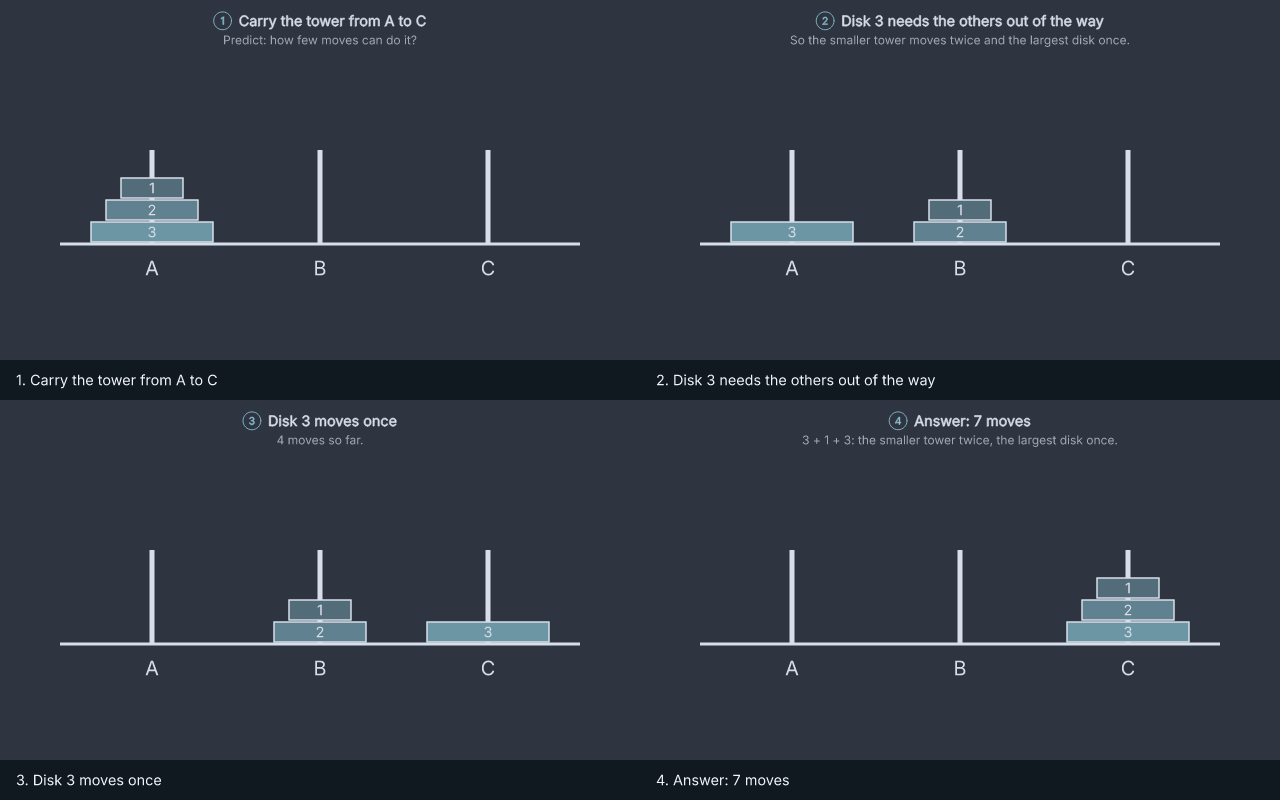
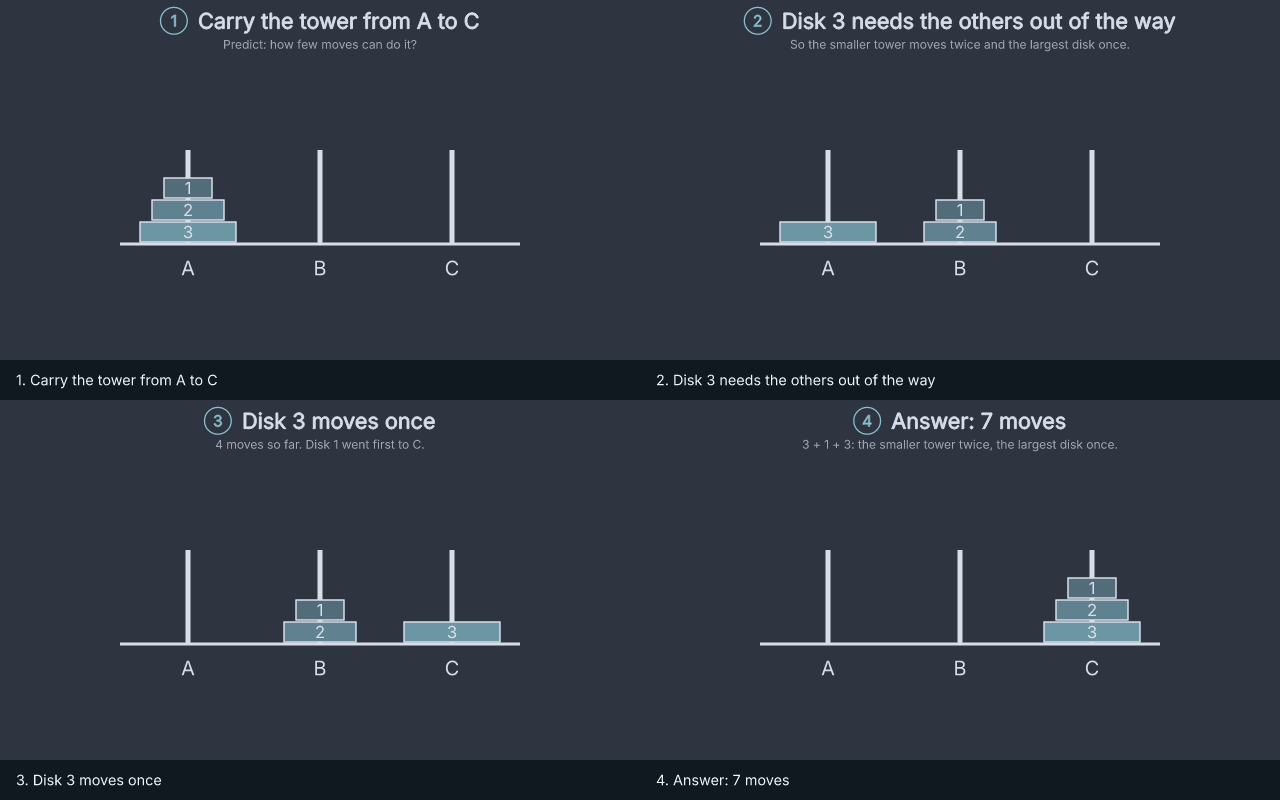
README: bring the Hanoi example and its picture up to date with the explainer
Claude-Session: https://claude.ai/code/session_01N4DAa8J5FbL58UQrRWLQhK

diff --git a/README.md b/README.md
@@ -85,17 +85,20 @@ export function solve(n: number, from = 'A', to = 'C', spare = 'B'): Move[] {
   if (n === 0) return [];
   return [...solve(n - 1, from, spare, to), `${from}→${to}` as Move, ...solve(n - 1, spare, to, from)];
 }
+
+/** Whether all `n` disks are on C, where the story ends. */
+export const finished = (t: Tower, n: number) => t.pegs[2]!.length === n;
 ```
 
-Its [test](scenes/tutorial/hanoi/model.test.ts) searches every arrangement, confirms that no route beats 7 moves for three disks or 15 for four, and checks that `solve()` takes that many.
+Its [test](scenes/tutorial/hanoi/model.test.ts) searches every arrangement, confirms that no route beats 7 moves for three disks, 15 for four or 31 for five, and checks that `solve()` takes that many.
 
-The scene draws each arrangement from the model's state, replays `solve()` across four steps, and leaves the last step live, so the reader can press moves and try to beat seven:
+The scene draws each arrangement from the model's state, replays `solve()` across four steps, and leaves the last step live: once the tower is on C, the reader’s own moves start again from A:
 
 <!-- hanoi/scene.ts -->
 ```ts
-import { Scene, Group, Rectangle, Text, Machine, view, lerpColor } from 'rayner';
+import { Scene, Group, Rectangle, Text, Machine, view, lerpColor, isRefusal } from 'rayner';
 import { stage, settingsOf } from 'rayner/explain';
-import { MOVES, next, solve, start, type Move, type Tower } from './model.ts';
+import { MOVES, finished, next, solve, start, type Move, type Tower } from './model.ts';
 
 const key = <T extends object>(part: T, name: string) => Object.assign(part, { key: name });
 const say = (t: Tower) => t.pegs.map((p, i) => `${'ABC'[i]}: ${p.join(', ') || 'empty'}`).join('; ');
@@ -104,10 +107,11 @@ export default class Hanoi extends Scene<Tower> {
   static meta = {
     id: 'hanoi',
     title: 'How few moves can carry a tower to another peg?',
+    sources: ['https://en.wikipedia.org/wiki/Tower_of_Hanoi'],
     answer: 'the smaller tower moves twice and the largest disk once',
     checks: [
       { question: 'Suppose the tower must end on B instead. Where must disks 1 and 2 be when disk 3 moves?', answer: 'On C: disk 3 needs B empty to land there, so the smaller tower waits on the other peg.' },
-      { question: 'How few moves carry five disks, and why?', answer: '31: the four-disk tower moves twice, 15 moves each time, and disk 5 moves once.' },
+      { question: 'How few moves carry five disks, and where does disk 1 go first?', answer: '31: the four-disk tower moves twice, 15 moves each time, and disk 5 once. Disk 1 goes first to C, as it does for three disks.' },
     ],
   };
   static settings = [{ id: 'disks', label: 'Disks', default: '3', options: [{ value: '3', label: '3' }, { value: '4', label: '4' }] }];
@@ -117,40 +121,46 @@ export default class Hanoi extends Scene<Tower> {
     const n = Number(settingsOf(this).disks), moves = solve(n), few = (moves.length - 1) / 2;
     const smaller = n === 3 ? 'disks 1 and 2' : `disks 1 to ${n - 1}`;
     this.state = start(n);
-    const s = stage(this);
+    const s = stage(this, { headingSize: 0.54 });
     const { ink, paper } = s.palette;
     // A floor wider than any arrangement, so the frame holds still; then each peg, its letter, and its
     // disks bottom first. A disk keeps its key, so a move slides it.
-    const floor = () => key(new Rectangle({ width: 13, height: 0.08, stroke: 'none', fill: ink }).moveTo([0, -1.6]), 'floor');
+    const floor = () => key(new Rectangle({ width: 10, height: 0.08, stroke: 'none', fill: ink }).moveTo([0, -1.6]), 'floor');
     const draw = ({ pegs }: Tower) => new Group(floor(), ...pegs.flatMap((disks, p) => {
-      const x = (p - 1) * 4.2;
+      const x = (p - 1) * 3.3;
       return [
         key(new Rectangle({ width: 0.12, height: 0.55 * n + 0.7, stroke: 'none', fill: ink }).moveTo([x, -1.6 + (0.55 * n + 0.7) / 2]), `peg:${p}`),
         key(new Text('ABC'[p]!, { fontSize: 0.5, color: ink }).moveTo([x, -2.2]), `letter:${p}`),
         ...disks.flatMap((d, i) => [
-          key(new Rectangle({ width: 0.8 + 0.75 * d, height: 0.5, stroke: ink, strokeWidth: 0.04, fill: lerpColor(paper, s.emphasis, 0.25 + 0.15 * d) })
+          key(new Rectangle({ width: 0.6 + 0.6 * d, height: 0.5, stroke: ink, strokeWidth: 0.04, fill: lerpColor(paper, s.emphasis, 0.25 + 0.15 * d) })
             .moveTo([x, -1.3 + 0.55 * i]), `disk:${d}`),
-          key(new Text(String(d), { fontSize: 0.36, color: ink }).moveTo([x, -1.3 + 0.55 * i]), `number:${d}`),
+          key(new Text(String(d), { fontSize: 0.42, color: ink }).moveTo([x, -1.3 + 0.55 * i]), `number:${d}`),
         ]),
       ];
     }));
     const tower = view(this, draw);
-    const machine = new Machine<Tower, Move>(this, { start: start(n), events: MOVES, next, views: [tower] });
+    // Once the tower is on C the story ends, so the reader's own moves start again from A.
+    const machine = new Machine<Tower, Move>(this, { start: start(n), events: MOVES, next, views: [tower],
+      bound: (t, move) => (finished(t, n) && !isRefusal(next(t, move)) ? 'the tower is on C' : undefined) });
 
     await this.step('start', { title: 'Carry the tower from A to C', line: 'Predict: how few moves can do it?',
-      caption: `Move one disk at a time, from the top of a peg onto an empty peg or a larger disk. How few moves carry all ${n} disks from A to C?` });
+      caption: `Move one disk at a time, from the top of a peg onto an empty peg or a larger disk. How few moves carry all ${n} disks from A to C? There is a way to know without trying them all.` });
     await s.enter(tower, { describe: () => `Pegs, bottom disk first. ${say(this.state)}` });
+    s.opening(tower);
 
-    await this.step('clear', { title: `Disk ${n} needs the others out of the way`, line: `So the smaller tower moves twice and the largest disk once.`,
+    await this.step('clear', { title: `Disk ${n} needs the others out of the way`, line: 'So the smaller tower moves twice and the largest disk once.',
       caption: `Disk ${n} cannot move while a disk sits on it, and it needs C empty to land there, because it is the largest disk. So ${smaller} first stack on B, the spare peg: the same puzzle one size smaller, solved in ${few} moves. They will have to come back on top afterwards.` });
+    s.opening(tower);
     await this.play(machine.replay(moves.slice(0, few)));
 
-    await this.step('largest', { title: `Disk ${n} moves once`, line: `${few + 1} moves so far.`,
-      caption: `With C empty, disk ${n} goes straight there. It will not need to move again.` });
+    await this.step('largest', { title: `Disk ${n} moves once`, line: `${few + 1} moves so far. Disk 1 went first to ${moves[0]!.at(-1)}.`,
+      caption: `Disk ${n} goes straight to the empty C, and will not need to move again. Look back at the first move: disk 1 went to ${moves[0]!.at(-1)}. Each smaller tower inside the plan heads for the other peg from the tower around it, so with three disks disk 1 starts toward C, and with four toward B.` });
+    s.opening(tower);
     await this.play(machine.replay([moves[few]!]));
 
     await this.step('solved', { title: `Answer: ${moves.length} moves`, line: `${few} + 1 + ${few}: the smaller tower twice, the largest disk once.`,
-      caption: `The smaller tower climbs back onto disk ${n}: ${few} more moves, ${moves.length} in all, and no route is shorter. Three disks take 7 moves and four take 15. Press the moves and try to beat it; a move the rules forbid is refused, with the reason.` });
+      caption: `The smaller tower climbs back onto disk ${n}: ${few} more moves, ${moves.length} in all, and no route is shorter. Three disks take 7 moves and four take 15. Now carry it yourself: your moves start from the full tower on A, and a move the rules forbid is refused, with the reason.` });
+    s.opening(tower);
     await this.play(machine.replay(moves.slice(few + 1)));
   }
 }
